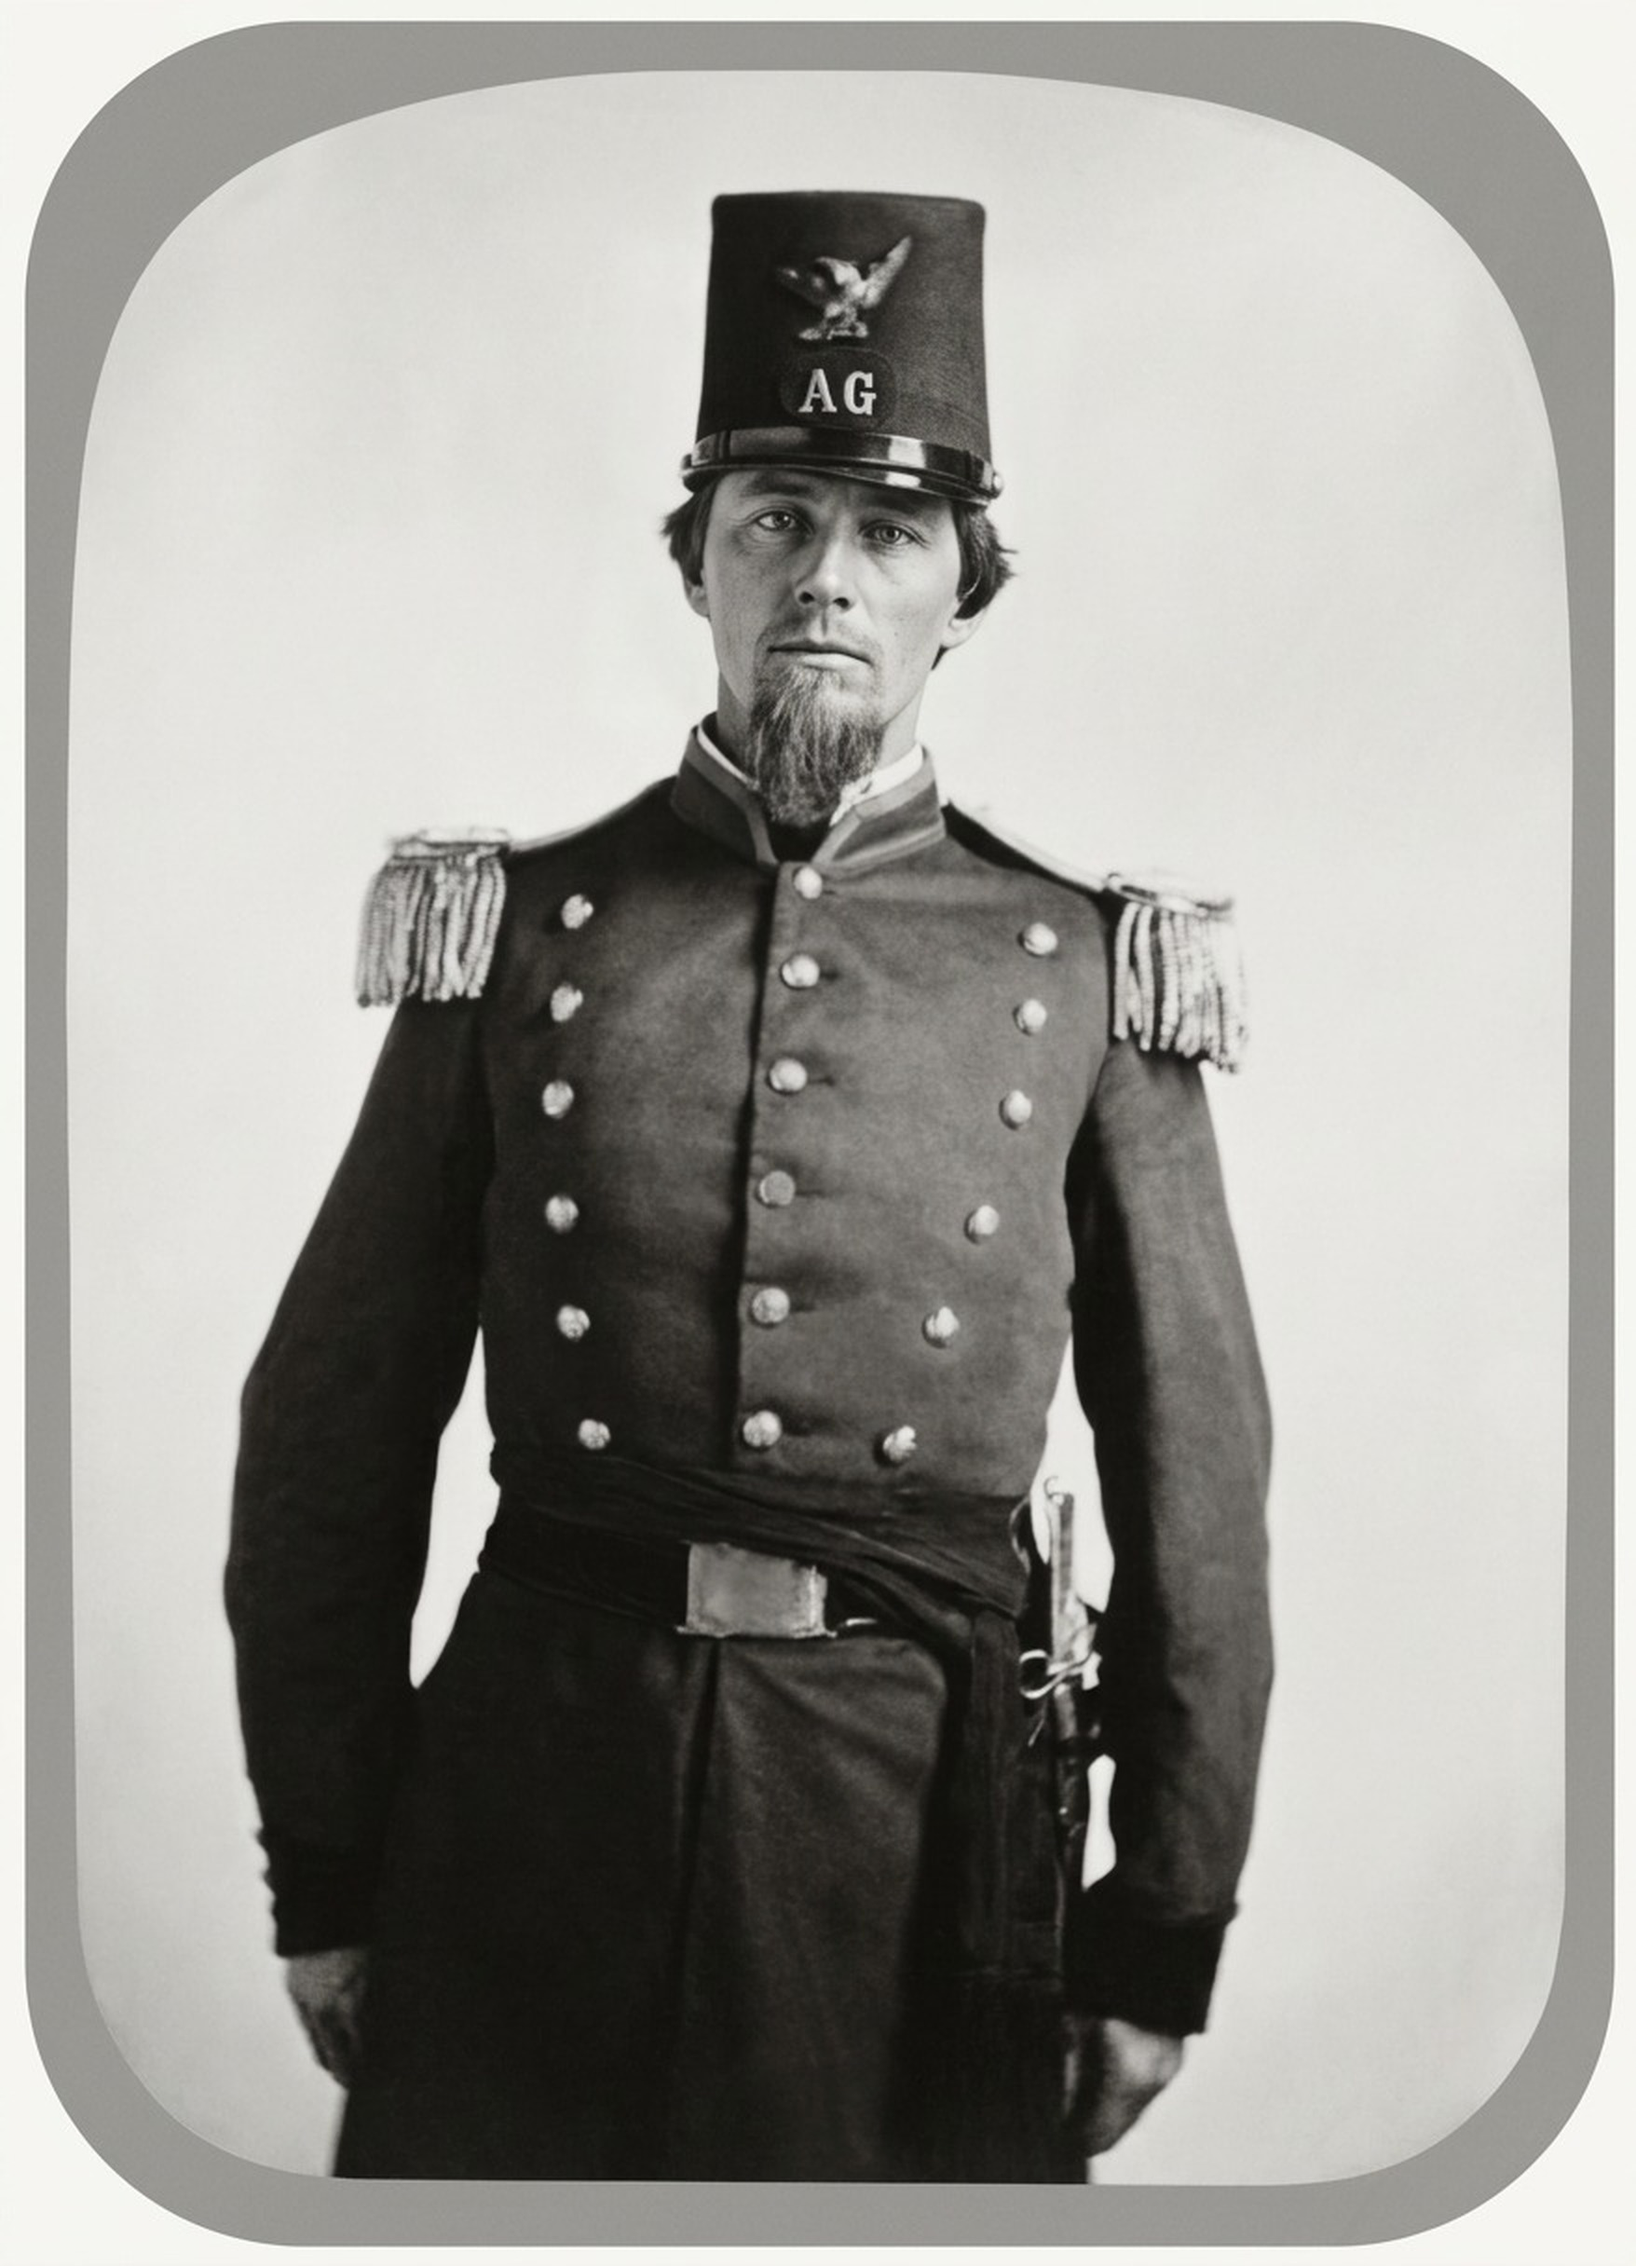
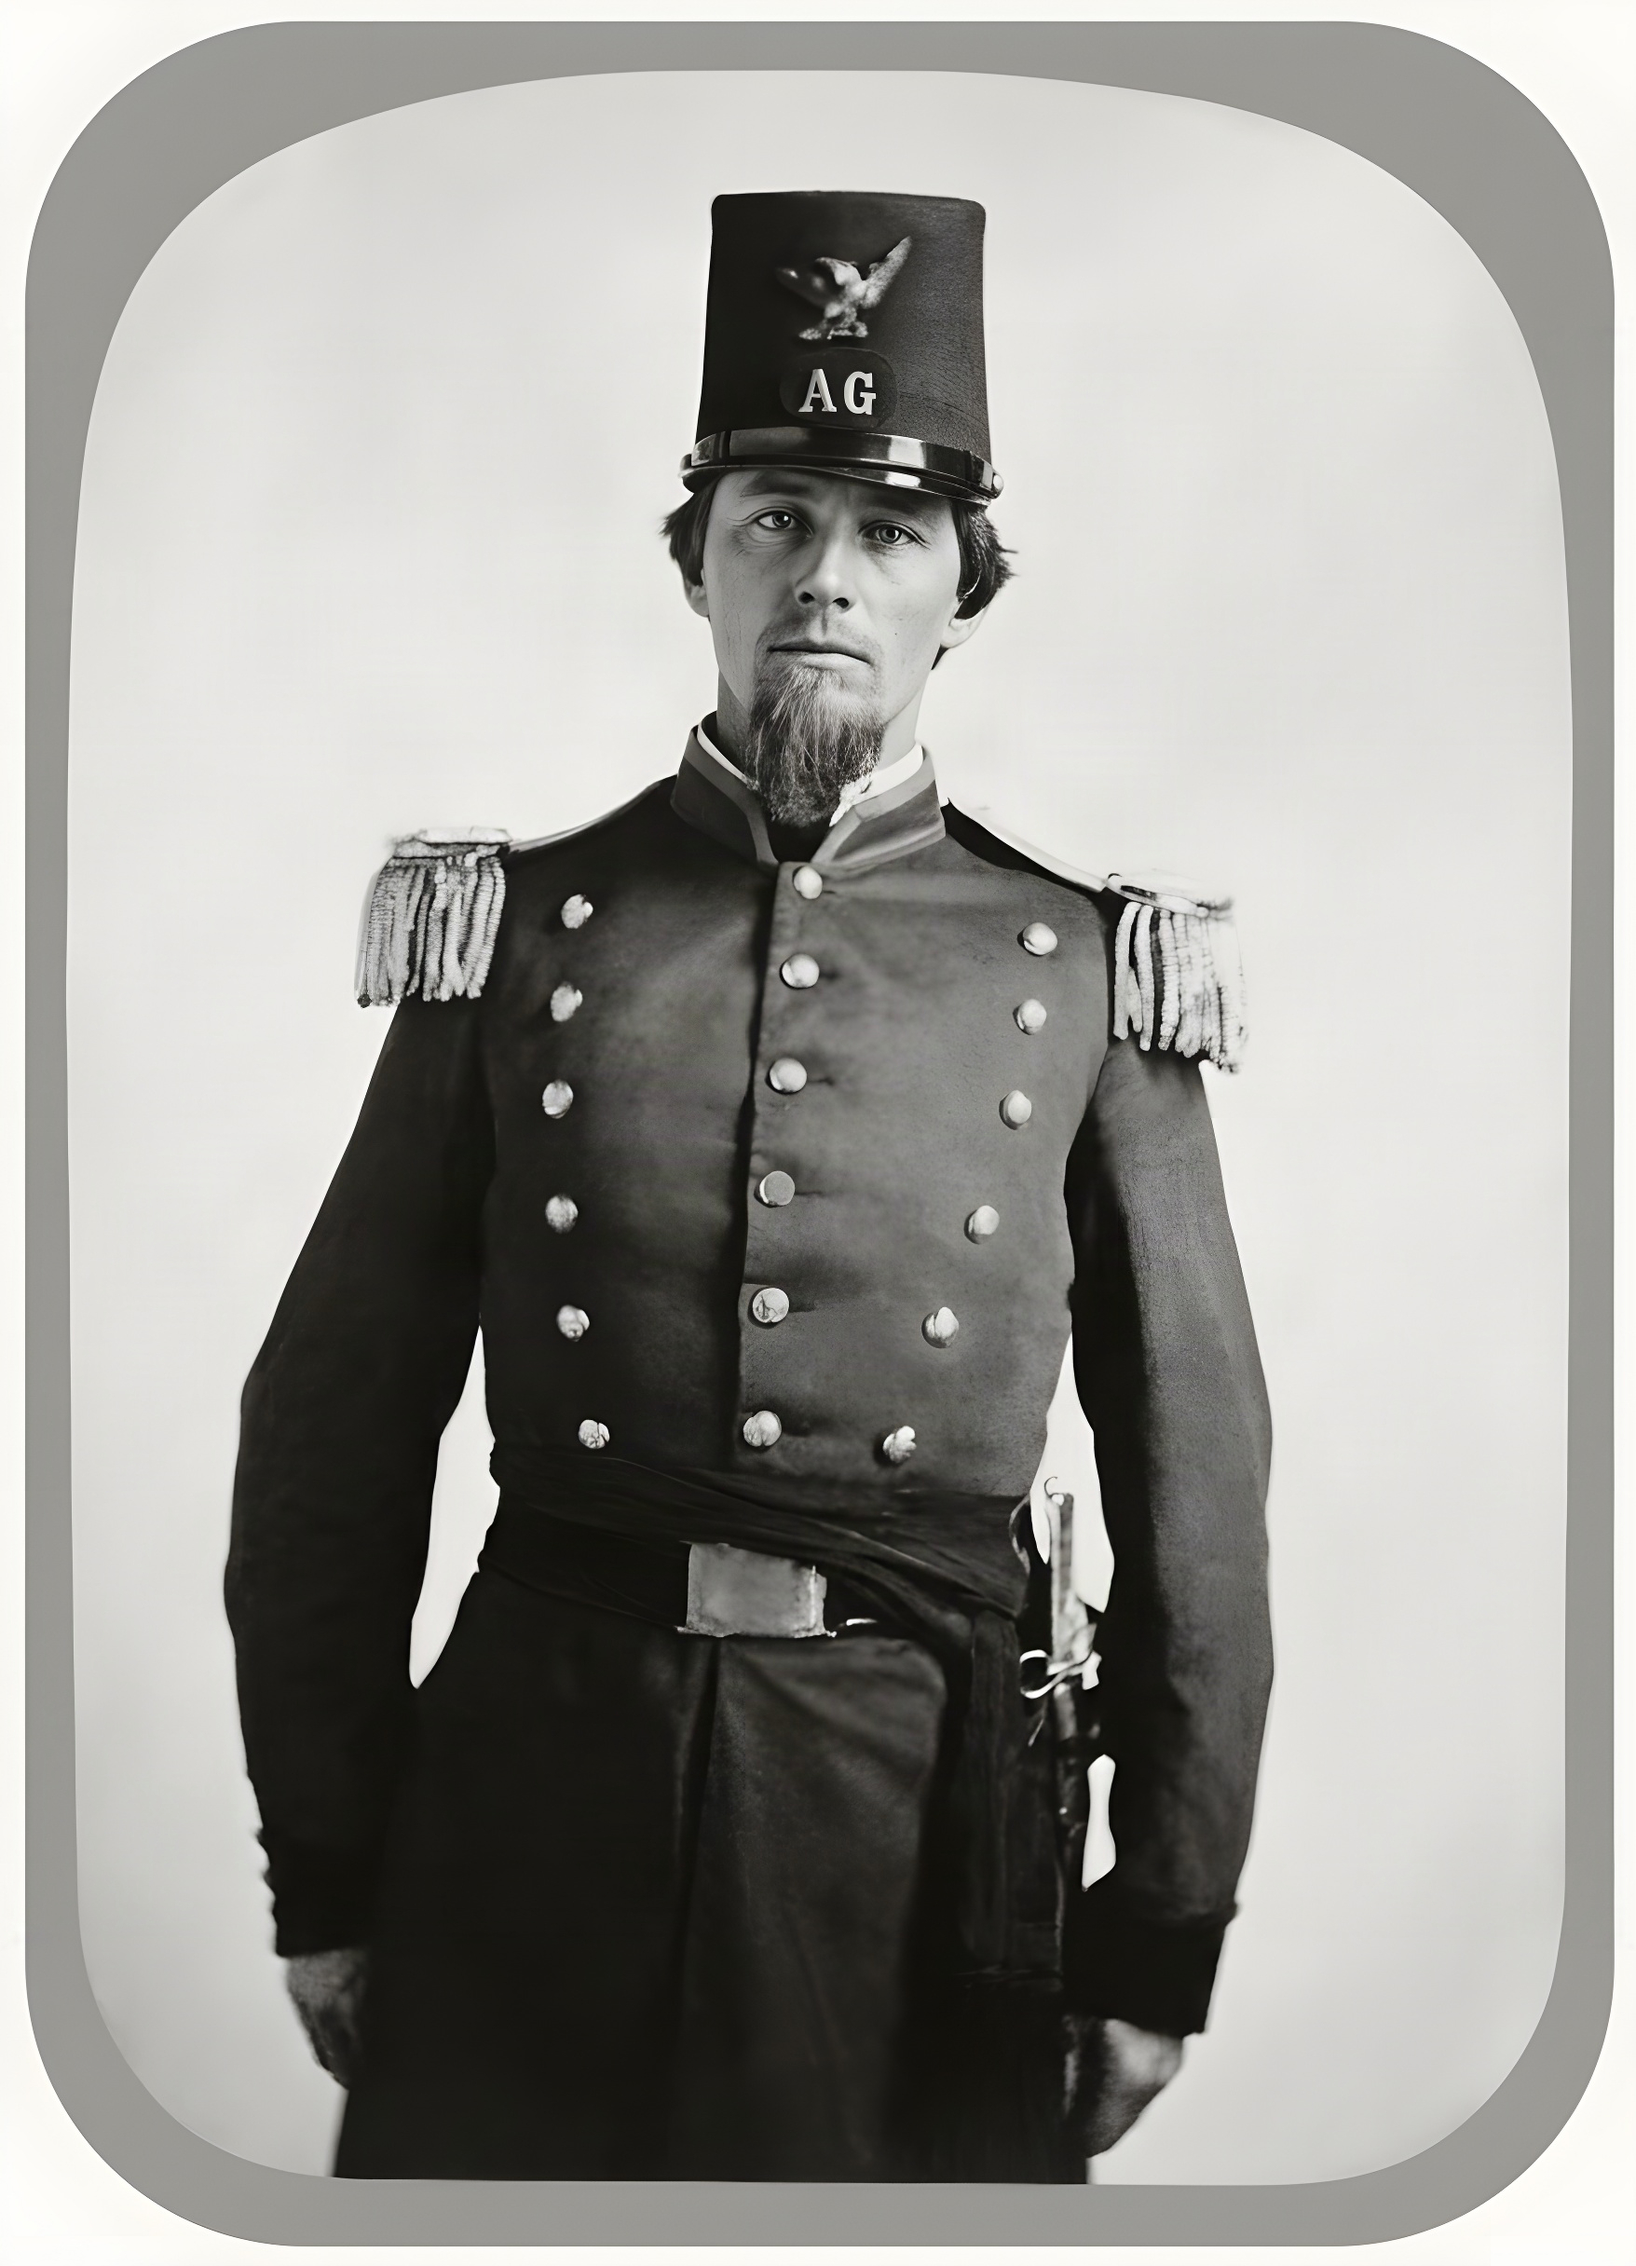
API upscale layer: fal ESRGAN on pd_02/pd_03 authentic PASS
Wire CORPUS upscale_file → DONE + photo URL; show thumb in service-review.
No GPU rent. pd_01 HOLD untouched.

diff --git a/public/service-review.html b/public/service-review.html
@@ -44,7 +44,9 @@ a.home{color:var(--gold-d);text-decoration:none;font-size:14px}
 .pe-note{margin-top:4px;font-size:13px;color:var(--ink);background:#faf6ef;border:1px solid var(--line);border-radius:10px;padding:8px 10px}
 .ba{display:grid;grid-template-columns:1fr 1fr;gap:8px}
 .ba.triple{grid-template-columns:1fr 1fr 1fr}
-@media(max-width:700px){.ba,.ba.triple{grid-template-columns:1fr}}
+.ba.quad{grid-template-columns:1fr 1fr 1fr 1fr}
+@media(max-width:900px){.ba.quad{grid-template-columns:1fr 1fr}}
+@media(max-width:700px){.ba,.ba.triple,.ba.quad{grid-template-columns:1fr}}
 .shot{position:relative;cursor:zoom-in;border-radius:12px;overflow:hidden;background:#e8dfd0}
 .shot img,.img-slot{width:100%;aspect-ratio:4/3;object-fit:cover;display:block;background:#ddd}
 .shot .lbl{position:absolute;left:8px;top:8px;background:rgba(42,32,24,.72);color:#fff;font-size:11px;padding:2px 7px;border-radius:6px}
@@ -86,7 +88,7 @@ textarea{resize:vertical;min-height:54px}
     <h1>Сервис-панель: кейсы до/после</h1>
     <div><span class="who" id="who"></span> · <a class="home" href="/admin.html">Админ</a> · <a class="home" href="/restorer.html">Реставратор</a> · <a class="home" href="/gpu-review.html">GPU</a> · <a class="home" href="/model-compare.html">Сравнение моделей</a> · <a class="home" href="#" id="refresh">Обновить</a></div>
     <div class="hero">
-      <div class="honesty"><strong>Канон:</strong> inspect → CodeFormer только если лица мягкие → Nano Banana (fal) face/identity lock, без invent/plastic. Parent eye / Roman сильнее child PASS. Upscale: превью DONE (PIL x2) для PASS authentic; ESRGAN later. pd_05 AFTER не выдумываем. Аренды GPU нет.</div>
+      <div class="honesty"><strong>Канон:</strong> inspect → CodeFormer только если лица мягкие → Nano Banana (fal) face/identity lock, без invent/plastic. Parent eye / Roman сильнее child PASS. Upscale = DONE when upscale_file wired (thumb shown). pd_05 AFTER не выдумываем. Аренды GPU нет.</div>
       <p id="lead">Все существующие AFTER + Nano API core4. PASS / WEAK / FAIL + комментарий пишутся в case DB.</p>
       <div class="stats" id="stats"></div>
     </div>
@@ -238,16 +240,21 @@ function render(){
     } else {
       afterHtml=`<div class="empty-after">WAITING — нет AFTER (не выдумываем)</div>`;
     }
+    const upDone=(c.upscale_status==='DONE' && !!c.upscale_url) || ((m.upscale_status||'')==='DONE' && !!c.upscale_url);
+    const upHtml=upDone?`<div class="shot" data-u="${esc(c.upscale_url)}" data-t="${esc(c.id)} upscale"><div class="img-slot"></div><span class="lbl">UPSCALE</span></div>`:'';
     const tags=(c.damage_tags||[]).slice(0,8).map(t=>`<span class="tag">${esc(t)}</span>`).join('');
+    const baClass=upDone?(triple?'quad':'triple'):(triple?'triple':'');
     return `<article class="card" data-id="${esc(c.id)}">
       <h3>${esc(c.title||c.id)} · <span class="st ${esc(c.after_status||'')}">${esc(c.after_status||'')}</span>
         ${c.lane==='api_nano'?' · <span class="st PASS">Nano API</span>':''}
-        ${v?(' · <span class="st '+esc(v.toUpperCase())+'">'+esc(v.toUpperCase())+'</span>'):''}</h3>
-      <div class="ba ${triple?'triple':''}">
+        ${v?(' · <span class="st '+esc(v.toUpperCase())+'">'+esc(v.toUpperCase())+'</span>'):''}
+        ${upDone?' · <span class="st PASS">UPSCALE</span>':''}</h3>
+      <div class="ba ${baClass}">
         <div class="shot" data-u="${esc(c.before_url||'')}" data-t="${esc(c.id)} before"><div class="img-slot"></div><span class="lbl">ДО</span></div>
         ${afterHtml}
+        ${upHtml}
       </div>
-      <div class="tags">${tags}<span class="tag">upscale:${esc(m.upscale_status||c.upscale_status||'PLANNED')}</span></div>
+      <div class="tags">${tags}<span class="tag">upscale:${esc((c.upscale_status==='DONE'?'DONE':(m.upscale_status||c.upscale_status||'PLANNED')))}</span></div>
     ${upU?`<div class="shot" data-u="${esc(upU)}" data-t="${esc(c.id)} upscale"><div class="k">Upscale preview</div><img alt="upscale"></div>`:''}
       ${peBadges(c)}
       <div class="meta">${esc(c.pipeline||'')}</div>
@@ -260,11 +267,11 @@ function render(){
       </div>
       <label>Комментарий</label>
       <textarea data-c="${esc(c.id)}" rows="2">${esc(m.comment||'')}</textarea>
-      <label>Upscale (planned)</label>
+      <label>Upscale</label>
       <select data-u2="${esc(c.id)}">
         <option value="PLANNED" ${(m.upscale_status||'PLANNED')==='PLANNED'?'selected':''}>PLANNED</option>
         <option value="WAITING" ${m.upscale_status==='WAITING'?'selected':''}>WAITING</option>
-        <option value="DONE" ${m.upscale_status==='DONE'?'selected':''}>DONE</option>
+        <option value="DONE" ${(c.upscale_status==='DONE'||m.upscale_status==='DONE')?'selected':''}>DONE</option>
         <option value="SKIP" ${m.upscale_status==='SKIP'?'selected':''}>SKIP</option>
       </select>
     </article>`;

diff --git a/api/main.py b/api/main.py
@@ -1033,7 +1033,7 @@ async def admin_restorer_photo(filename: str, kind: str = "before", authorizatio
     if kind == "after":
         allowed = set()
         for p in (meta.get("photos") or []):
-            for k in ("after_file", "after_authentic_file", "after_modern_file"):
+            for k in ("after_file", "after_authentic_file", "after_modern_file", "upscale_file"):
                 n = (p.get(k) or "").strip()
                 if n:
                     allowed.add(n)
@@ -1505,18 +1505,28 @@ def _service_build_cases():
         has_after = bool(after_name and _SAFE_NAME.match(after_name) and (after_root / after_name).is_file())
         has_auth = bool(auth_name and _SAFE_NAME.match(auth_name) and (after_root / auth_name).is_file())
         has_mod = bool(mod_name and _SAFE_NAME.match(mod_name) and (after_root / mod_name).is_file())
+        upscale_name = str(p.get("upscale_file") or "").strip()
+        has_upscale = False
+        if upscale_name and _SAFE_NAME.match(upscale_name):
+            if (after_root / upscale_name).is_file():
+                has_upscale = True
+            elif (after_root / "upscale" / upscale_name).is_file():
+                has_upscale = True
+            else:
+                upscale_name = ""
+        else:
+            upscale_name = ""
         # HARD BAN: never invent AFTER for pd_05*
         if pid in _HARD_BAN_INVENT_IDS or pid.startswith("pd_05"):
             if not (has_after or has_auth or has_mod):
                 has_after = has_auth = has_mod = False
+            has_upscale = False
+            upscale_name = ""
         if has_after or has_auth or has_mod:
             after_status = "READY"
         else:
             after_status = "WAITING"
         parent_eye = _service_parent_eye(p)
-        upscale_name = str(p.get("upscale_file") or "").strip()
-        has_upscale = bool(upscale_name and _SAFE_NAME.match(upscale_name) and (after_root / upscale_name).is_file())
-        upscale_status = "DONE" if has_upscale else (str(p.get("upscale_status") or "PLANNED")[:40] or "PLANNED")
         mark = marks.get(pid) or restorer_marks.get(pid) or {}
         # normalize restorer approve/bad → pass/fail for service UI
         if mark and str(mark.get("verdict") or "") in ("approve", "approve_authentic", "approve_modern"):
@@ -1527,6 +1537,20 @@ def _service_build_cases():
             mark = dict(mark)
             mark["verdict"] = "fail"
             mark["verdict_source"] = "restorer_board"
+        mark_up = str((mark or {}).get("upscale_status") or "").strip().upper()
+        if has_upscale:
+            upscale_status = "DONE"
+            upscale_url = f"/api/admin/restorer/photo/{upscale_name}?kind=after"
+        else:
+            upscale_status = mark_up if mark_up in ("PLANNED", "WAITING", "DONE", "SKIP") else "PLANNED"
+            upscale_url = ""
+        mark_up = str((mark or {}).get("upscale_status") or "").strip().upper()
+        if has_upscale:
+            upscale_status = "DONE"
+            upscale_url = f"/api/admin/restorer/photo/{upscale_name}?kind=after"
+        else:
+            upscale_status = mark_up if mark_up in ("PLANNED", "WAITING", "DONE", "SKIP") else "PLANNED"
+            upscale_url = ""
         case = {
             "id": pid,
             "title": pid.replace("_", " "),
@@ -1627,7 +1651,7 @@ async def admin_service_cases(authorization: str = Header(None)):
             "reject invent/plastic",
             "B&W → authentic B&W AFTER + separate color variant",
             "color → authentic restore (no invented recolor)",
-            "upscale = planned field",
+            "upscale = DONE when CORPUS upscale_file exists under after/",
             "parent eye / Roman marks overrule child PASS",
         ],
         "no_rent": True,
